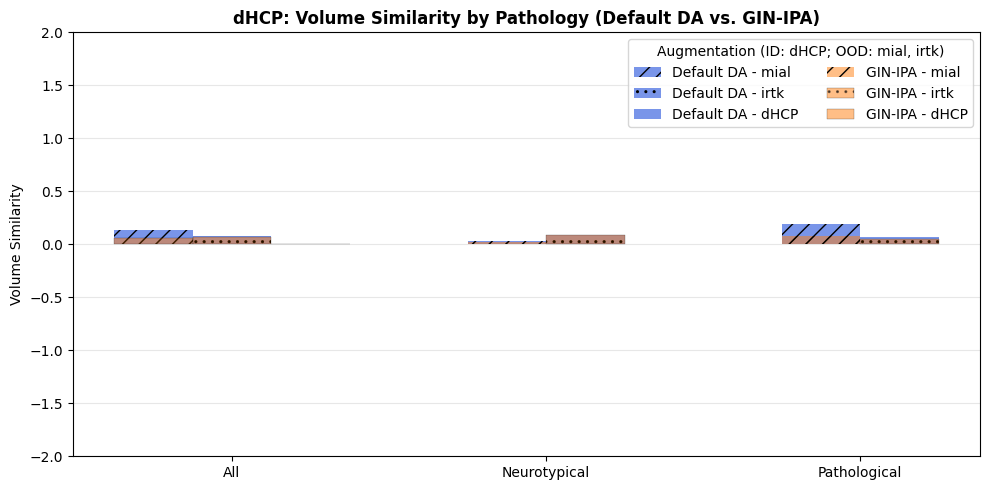
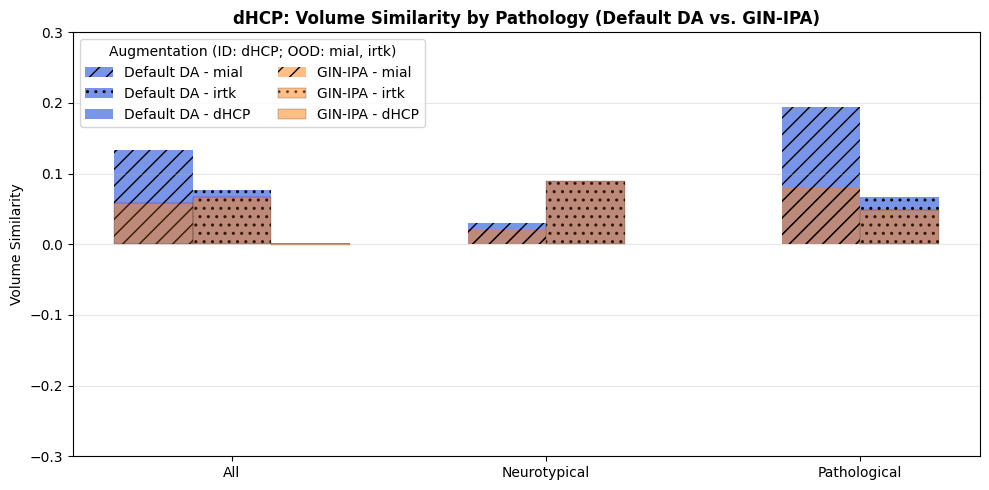
Apply corrections by Gerards (images)

diff --git a/sources/Results.tex b/sources/Results.tex
@@ -71,7 +71,7 @@ Kernel density estimation (KDE) plots were generated for each metric and label, 
   \begin{itemize}
     \item \textbf{Inference on Kispi-mial:} significant, moderate improvements across DSC, VS, and HD95 for dGM (DSC: \numrange[range-open-phrase=from\ ]{0.71}{0.78}; VS: \numrange[range-open-phrase=from\ ]{0.9}{0.7}) and ventricles (DSC: \numrange[range-open-phrase=from\ ]{0.36}{0.44}; VS: \numrange[range-open-phrase=from\ ]{-0.5}{-0.2}). Small improvement overall (DSC: \numrange[range-open-phrase=from\ ]{0.63}{0.68}).
     \item \textbf{Inference on Kispi-irtk:} no difference in performance.
-    \item \textbf{Inference on dHCP:} significant, strong improvements across all metrics and tissues. The mean DSC increases \numrange[range-open-phrase=from\ ]{0.34}{0.54} (see Tab.\,\ref{tab:1_irtk_dhcp_stats}). The KDE plots of DSC are in Fig.\,\ref{fig:1_irtk_dhcp_DC}, while the ones regarding VS and HD95 are reported in Appendix \hyperref[app:SupplementaryPlots]{A} (Figs.\,\ref{fig:1_irtk_dhcp_VS}, \ref{fig:1_irtk_dhcp_HD}).
+    \item \textbf{Inference on dHCP:} significant, strong improvements across all metrics and tissues. The mean DSC increases \numrange[range-open-phrase=from\ ]{0.34}{0.54} (see Tab.\,\ref{tab:1_irtk_dhcp_stats}). The KDE plots of DSC are in Fig.\,\ref{fig:1_irtk_dhcp_DC}, while the ones regarding VS and HD95 are reported in Appendix \hyperref[app:SupplementaryPlots]{A} (Figs.\,\ref{fig:1_irtk_dhcp_VS}--\ref{fig:1_irtk_dhcp_HD}).
   \end{itemize}
   \item \textbf{Train on dHCP}
   No differences observed on any inference dataset, metric, or label.
@@ -185,7 +185,7 @@ The plots below (Fig.\,\ref{fig:pathology_summary_1} and Fig.\,\ref{fig:patholog
   \includegraphics[width=0.85\textwidth]{figures/1_pathology_VS.png} \\
   \vspace{10pt}
   \includegraphics[width=0.85\textwidth]{figures/1_pathology_HD.png}
-  \caption{Comparison of the segmentation performance by pathology, between the baseline and the GIN-IPA augmentation models. From top to bottom: Dice score, volume similarity, and Hausdorff distance 95\th percentile. Until the bars are brown, the metrics of the two models are equivalent.}
+  \caption{Comparison of the segmentation performance by pathology, between the baseline and the GIN-IPA augmentation models. From top to bottom: Dice score, volume similarity \big(cropped, full range is $[-2, 2]$\big), and Hausdorff distance 95\th percentile. Until the bars are brown, the metrics of the two models are equivalent.}
   \label{fig:pathology_summary_1}
 \end{figure}
 
@@ -196,6 +196,6 @@ The plots below (Fig.\,\ref{fig:pathology_summary_1} and Fig.\,\ref{fig:patholog
   \includegraphics[width=0.85\textwidth]{figures/2_pathology_VS.png} \\
   \vspace{10pt}
   \includegraphics[width=0.85\textwidth]{figures/2_pathology_HD.png}
-  \caption{Comparison of the segmentation performance by pathology, between the GIN-IPA and the combined augmentation models. From top to bottom: Dice score, volume similarity, and Hausdorff distance 95\th percentile. Until the bars are brown, the metrics of the two models are equivalent.}
+  \caption{Comparison of the segmentation performance by pathology, between the GIN-IPA and the combined augmentation models. From top to bottom: Dice score, volume similarity \big(cropped, full range is $[-2, 2]$\big), and Hausdorff distance 95\th percentile. Until the bars are brown, the metrics of the two models are equivalent.}
   \label{fig:pathology_summary_2}
 \end{figure}

diff --git a/sources/Data.tex b/sources/Data.tex
@@ -39,7 +39,7 @@ Prior to reconstruction, all acquired images for a given subject underwent a man
 
 \num{40} image stacks, that is, half of the available Kispi stacks, was processed using the \textsc{mial} Super-Resolution Toolkit (\textsc{mialsrtk}) pipeline\,\cite{Tourbier2015, MIALSRTK}. An example of this group of volumes---from now on referred to as the \enquote{Kispi-mial} sub-cohort---is shown in Fig.\,\ref{fig:kispi-mial_images}. The remaining \num{40} stacks were reconstructed using a pipeline based on the Image Registration Toolkit (\textsc{irtk})\,\cite{Kuklisova2012, irtk-simple}. For this sub-cohort---from now on referred to as the \enquote{Kispi-irtk}---an example is shown in Fig.\,\ref{fig:kispi-irtk_images}.
 
-For both SRR methods the resulting 3D volumes have an isotropic resolution of \qtyproduct[product-units = power]{0.5 x 0.5 x 0.5}{\milli\metre}; scans were standardised to \numproduct{256 x 256 x 256} voxels\,\cite{FeTA2021_review}. The distributions of GA, pathology and image quality of both sub-cohorts are shown in Fig.\,\ref{fig:kispi_plots}. Even though the image quality for each volume is not provided in the open-access data---as it is only available as a plot in \cite{FeTA2024_review}---it can be noticed that Kispi-mial generally exhibits lower image quality compared to Kispi-irtk. Moreover, while the image quality is equivalent between the neurotypical and the pathological sub-cohorts in Kispi-irtk, in Kispi-mial the lowest quality scans are predominantly found among the pathological cases. More details about the SR algorithms are given in Section \ref{sec:SuperResolutionReconstruction}.
+For both SRR methods the resulting 3D volumes have an isotropic resolution of \qtyproduct[product-units = power]{0.5 x 0.5 x 0.5}{\milli\metre}; scans were standardised to \numproduct{256 x 256 x 256} voxels\,\cite{FeTA2021_review}. The distributions of GA, pathology and image quality of both sub-cohorts are shown in Fig.\,\ref{fig:kispi_plots}. Even though the image quality for each volume is not provided in the open-access data---as it is only available as a plot in \cite{FeTA2024_review}---it can be noticed that Kispi-mial generally exhibits lower image quality compared to Kispi-irtk. Moreover, while the image quality is equivalent between the neurotypical and the pathological sub-cohorts in Kispi-irtk, in Kispi-mial the lowest quality scans are predominantly found among the pathological cases. More details about the SR algorithms are given in Section \ref{sec:SuperResolutionReconstruction}. Examples of especially low-quality scans are showed in Fig.\,\ref{fig:low_quality_images} (Appendix \hyperref[app:SupplementaryTables]{A}).
 
 \begin{figure}[hbt]
     \vspace{-5pt}

diff --git a/sources/AppendixA.tex b/sources/AppendixA.tex
@@ -11,6 +11,26 @@
 %%%%%%%%%%%%%%%%%%%%%%%%%%%%%%%%%%%%%%%%%%%%%%%%%%%%%%%%%%%%%%%%%%%%%%%%
 \vspace{1cm}
 
+\section{Low-Quality Kispi-mial Scans}
+In Fig.\,\ref{fig:low_quality_images} are shown some examples of especially low-quality Kispi-mial scans, which exhibit motion artefacts and low SNR. These characteristics make the segmentation task more challenging for the models trained on this dataset.
+
+\begin{figure}[htbp]
+    \centering
+    \includegraphics[width=0.33\textwidth]{figures/mial_ax_lq_1.png}
+    \hspace{5pt}
+    \includegraphics[width=0.33\textwidth]{figures/mial_sag_lq_1.png} \\
+    \vspace{10pt}
+    \includegraphics[width=0.33\textwidth]{figures/mial_ax_lq_2.png}
+    \hspace{5pt}
+    \includegraphics[width=0.33\textwidth]{figures/mial_sag_lq_2.png} \\
+    \vspace{10pt}
+    \includegraphics[width=0.33\textwidth]{figures/mial_ax_lq_3.png}
+    \hspace{5pt}
+    \includegraphics[width=0.33\textwidth]{figures/mial_sag_lq_3.png} \\
+    \caption{Example of low-quality Kispi-mial scans: axial (left) and sagittal (right) views. Material from: \cite{Payette2021, FeTA_MICCAI}.}
+    \label{fig:low_quality_images}
+\end{figure}
+
 \section{General Performance}
 In the plots below are shown the volume similarity (Figs.\,\ref{fig:default_VS}--\ref{fig:both_VS}) and Hausdorff distance 95\th percentile (Figs.\,\ref{fig:default_HD}--\ref{fig:both_HD}) across datasets and labels for the three models. The model predictions are realized on the test set of the same dataset the model was trained on (in-domain), and on the whole set (both train and test) of the other datasets (out-of-domain, OOD). The plots regarding the Dice score are in Section \ref{sec:GeneralPerformance}.
 
